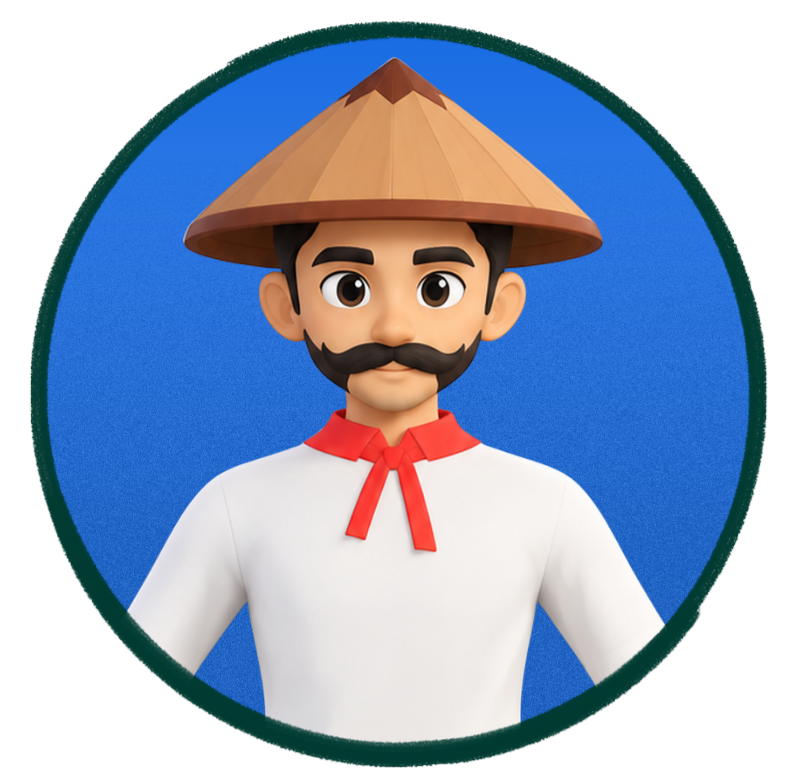
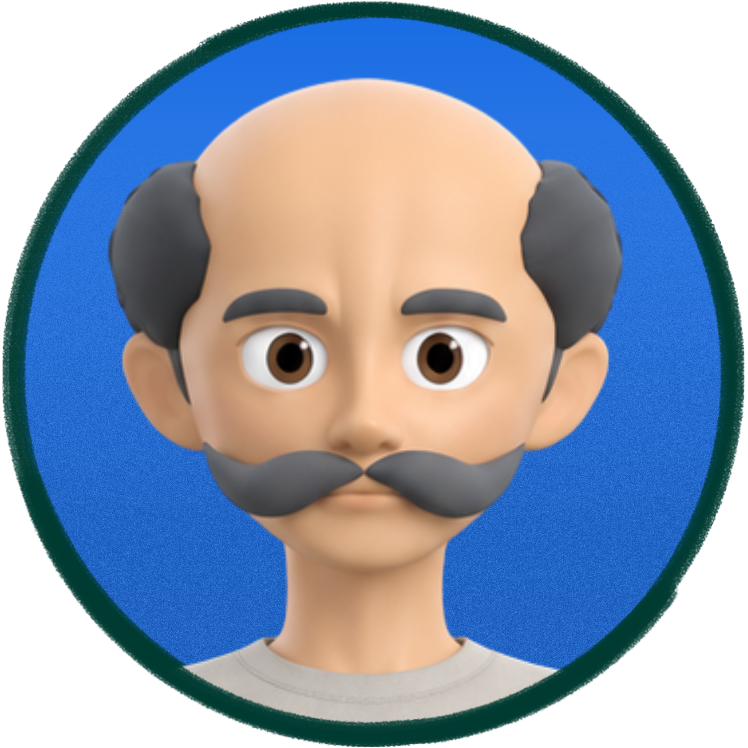
new changes

diff --git a/script/dashboard.js b/script/dashboard.js
@@ -23,12 +23,21 @@ const db = getFirestore(app);
 document.getElementById('dash-date').textContent = new Date().toLocaleDateString('en-PH',{weekday:'long',year:'numeric',month:'long',day:'numeric'});
 
 /* ============================================================
-   AVATARS — only three choices
+   AVATARS — to add one: save the picture in img/ and add ONE line below.
+   The picker in Edit Profile is built from this list automatically.
    ============================================================ */
 const AVATARS = {
-  bata:  { label: 'Kid',       src: 'img/avatar-bata.png'  },
-  lolo:  { label: 'Mang Tomas', src: 'img/avatar-lolo.png'  },
-  libro: { label: 'Book',      src: 'img/avatar-libro.png' }
+  bata:  { label: 'Liam',       src: 'img/avatar-bata.png'  },
+  lolo:  { label: 'Lolo', src: 'img/avatar-lolo.png'  },
+  libro: { label: 'Super Book',      src: 'img/avatar-libro.png' },
+  maria: { label: 'Maria', src: 'img/avatar-maria.png' },
+  miguel: { label: 'Miguel', src: 'img/avatar-miguel.png' },
+  pedro: { label: 'Pedro', src: 'img/avatar-pedro.png' },
+  robert: { label: 'Robert', src: 'img/avatar-robert.png' },
+  jose: { label: 'Jose', src: 'img/avatar-jose.png' },
+  juan: { label: 'Juan', src: 'img/avatar-juan.png' },
+  lisa: { label: 'Lisa', src: 'img/avatar-lisa.png' },
+  thomas: { label: 'Mang Thomas', src: 'img/avatar-thomas.png' }
 };
 const DEFAULT_AVATAR = 'bata';
 
@@ -51,6 +60,17 @@ function applyAvatar(id){
     b.classList.toggle('selected', b.dataset.avatar === resolveAvatar(id));
   });
 }
+
+// Build the avatar choices in the Edit Profile popup from the AVATARS list above.
+(function buildAvatarGrid(){
+  const grid = document.getElementById('ep-avatar-grid');
+  if (!grid) return;
+  grid.innerHTML = Object.entries(AVATARS).map(([id, a]) =>
+    `<button class="ep-avatar-opt" data-avatar="${escapeHtml(id)}" type="button">
+      <img src="${escapeHtml(a.src)}" alt="${escapeHtml(a.label)}" onerror="console.warn('Avatar picture not found:', this.src); this.parentNode.remove()">
+      <span>${escapeHtml(a.label)}</span>
+    </button>`).join('');
+})();
 
 /* ============================================================
    HELPERS
@@ -130,11 +150,11 @@ const ACHIEVEMENTS = [
   { id: 'story_complete',    title: 'Story Complete',   desc: 'Unlocked by completing all story chapters.', stage: STORY_CHAPTERS.length },
   // Multiplayer badges: saved by Unity in students/{uid}/achievements/badges
   // (<key>BadgeEarned = reached, <key>BadgeClaimed = player pressed CLAIM in the game)
-  { id: 'friendly',    title: 'Friendly',    desc: 'Make friends in the game.',                          badge: 'friendly' },
-  { id: 'veteran',     title: 'Veteran',     desc: 'Play Patintero, Sekyu Base and Bamsak at least once.', badge: 'veteran' },
-  { id: 'mvp',         title: 'MVP',         desc: 'Be the MVP in a Sekyu Base match.',                  badge: 'mvp' },
-  { id: 'team_player', title: 'Team Player', desc: 'Earn it by teamwork in Sekyu Base.',                 badge: 'teamPlayer' },
-  { id: 'speedster',   title: 'Speedster',   desc: 'Earn it by speed in Sekyu Base.',                    badge: 'speedster' }
+  { id: 'friendly',    title: 'Friendly',    desc: 'Make friends in the game.',                          badge: 'friendly',   img: 'img/13.png' },
+  { id: 'veteran',     title: 'Veteran',     desc: 'Play Patintero, Sekyu Base and Bamsak at least once.', badge: 'veteran',    img: 'img/17.png' },
+  { id: 'mvp',         title: 'MVP',         desc: 'Be the MVP in a Sekyu Base match.',                  badge: 'mvp',        img: 'img/15.png' },
+  { id: 'team_player', title: 'Team Player', desc: 'Earn it by teamwork in Sekyu Base.',                 badge: 'teamPlayer', img: 'img/16.png' },
+  { id: 'speedster',   title: 'Speedster',   desc: 'Earn it by speed in Sekyu Base.',                    badge: 'speedster',  img: 'img/14.png' }
 ];
 
 function formatAchievementTime(ms) {
@@ -202,10 +222,17 @@ function renderAchievements(achievementData, chaptersCompleted = 0) {
       else if (a.stage)                 extra = resultBlock('Story Progress', `${Math.min(chaptersCompleted, STORY_CHAPTERS.length)}/${STORY_CHAPTERS.length}`, 'chapters completed');
     }
 
+    // Badge picture (only the multiplayer badges have one: see img in ACHIEVEMENTS).
+    // It sits under the text. If the file is missing, it is simply left out.
+    const pic = a.img
+      ? `<div class="ach-img"><img src="${escapeHtml(a.img)}" alt="${escapeHtml(a.title)} badge" loading="lazy" onerror="this.parentNode.remove()"></div>`
+      : '';
+
     return `<div class="ach-card ${unlocked ? 'unlocked' : 'locked'}">
       <h4>${escapeHtml(a.title)}</h4>
       <p>${escapeHtml(a.desc)}</p>
       ${extra}
+      ${pic}
       <span class="ach-status">${unlocked ? 'Unlocked' : earnedNotClaimed ? 'Claim it in the game' : 'Locked'}</span>
     </div>`;
   }).join('');
@@ -576,7 +603,14 @@ onAuthStateChanged(auth, async (user) => {
     const userSnap = await getDoc(userRef);
     const u = userSnap.exists() ? userSnap.data() : {};
 
+    // Profile erased (hard delete) and not a staff account: treat as a removed account.
+    let erased = false;
+    if (!userSnap.exists()) {
+      try { erased = !(await getDoc(doc(db,'teachers',user.uid))).exists(); } catch (_) { erased = false; }
+    }
+
     // Disabled or deleted by the school admin / teacher: no access to the dashboard.
+    if (erased) u.status = 'deleted';
     if (u.status === 'disabled' || u.status === 'deleted') {
       await Swal.fire({
         icon: 'info',

diff --git a/script/shared.js b/script/shared.js
@@ -246,6 +246,13 @@ const ACHIEVEMENTS = [
     stage: STORY_CHAPTERS.length,
     detail:(d, s) => `${s.chaptersCompleted}/${s.totalChapters} chapters completed`,
     goal:(s)      => `${s.chaptersCompleted}/${s.totalChapters} chapters` },
+  // Multiplayer badges: saved by Unity in students/{uid}/achievements/badges
+  // (<key>BadgeEarned = reached, <key>BadgeClaimed = player pressed CLAIM in the game)
+  { id:'friendly',    title:'Friendly',    desc:'Make friends in the game.',                            badge:'friendly' },
+  { id:'veteran',     title:'Veteran',     desc:'Play Patintero, Sekyu Base and Bamsak at least once.', badge:'veteran' },
+  { id:'mvp',         title:'MVP',         desc:'Be the MVP in a Sekyu Base match.',                    badge:'mvp' },
+  { id:'team_player', title:'Team Player', desc:'Earn it by teamwork in Sekyu Base.',                   badge:'teamPlayer' },
+  { id:'speedster',   title:'Speedster',   desc:'Earn it by speed in Sekyu Base.',                      badge:'speedster' },
 ];
 
 function formatAchievementTime(ms) {
@@ -317,6 +324,9 @@ export async function openProgressModal(student) {
   const saves = savesRes.ok ? savesRes.value.docs.map(d => ({ id: d.id, ...d.data() })) : [];
   const saved = achRes.ok ? new Map(achRes.value.docs.map(d => [d.id, d.data()])) : new Map();
 
+  const summary = saved.get('summary') || {};   // multiplayer totals + storyFinished
+  const badges  = saved.get('badges')  || {};   // multiplayer badges
+
   const chaptersCompleted = Math.min(total, saves.reduce((m, s) => Math.max(m, num(s.completedStage)), 0));
   const friendCount       = friendsRes.ok ? friendsRes.value.size : 0;
 
@@ -371,7 +381,7 @@ export async function openProgressModal(student) {
       <div class="pg-bar"><div class="pg-bar-fill" style="width:${pct}%"></div></div>
       <ul class="pg-list">${chapterRows}</ul>
       <p class="pg-subhead">Save slots (${saves.length})</p>
-      ${saves.length ? `<ul class="pg-list">${slotRows}</ul>` : '<p class="pg-row-meta" style="margin-top:8px">No story saves yet. The student has not started a New Game in Unity.</p>'}`;
+      ${saves.length ? `<ul class="pg-list">${slotRows}</ul>` : '<p class="pg-row-meta" style="margin-top:8px">No story saves yet.</p>'}`;
   }
 
   // ---- badges section ----
@@ -381,18 +391,21 @@ export async function openProgressModal(student) {
     // Same rules as dashboard.js: Luksong Baka needs a real win
     // (completed === true); the other Unity badges need a document
     // that is not marked unlocked:false; the story badge uses chapters.
-    const unlocked = a.stage
-      ? chaptersCompleted >= a.stage
-      : (!!data && (a.id === 'luksong_baka' ? data.completed === true : data.unlocked !== false));
+    const earnedNotClaimed = !!a.badge && badges[a.badge + 'BadgeEarned'] === true && badges[a.badge + 'BadgeClaimed'] !== true;
+    const unlocked = a.badge
+      ? badges[a.badge + 'BadgeClaimed'] === true
+      : a.stage
+        ? (chaptersCompleted >= a.stage || summary.storyFinished === true)
+        : (!!data && (a.id === 'luksong_baka' ? data.completed === true : data.unlocked !== false));
     if (unlocked) unlockedCount++;
-    const info = unlocked ? `<div class="pg-row-meta">${escapeHtml(a.detail(data, stats))}</div>` : '';
+    const info = (unlocked && a.detail) ? `<div class="pg-row-meta">${escapeHtml(a.detail(data, stats))}</div>` : '';
     return `<li class="pg-row">
       <div>
         <span class="pg-row-title">${escapeHtml(a.title)}</span>
         <div class="pg-row-meta">${escapeHtml(a.desc)}</div>
         ${info}
       </div>
-      <span class="pg-pill ${unlocked ? 'done' : 'locked'}">${unlocked ? 'Unlocked' : (a.goal ? a.goal(stats) : 'Locked')}</span>
+      <span class="pg-pill ${unlocked ? 'done' : 'locked'}">${unlocked ? 'Unlocked' : earnedNotClaimed ? 'Not claimed yet' : (a.goal ? a.goal(stats) : 'Locked')}</span>
     </li>`;
   }).join('');
 
@@ -400,6 +413,12 @@ export async function openProgressModal(student) {
     ${warnHtml}
     <div class="pg-stats">
       <div class="pg-stat"><strong>${friendsRes.ok ? friendCount : 'N/A'}</strong><span>Friends</span></div>
+      <div class="pg-stat"><strong>${achRes.ok ? num(summary.totalMultiplayerWins) : 'N/A'}</strong><span>Multiplayer wins</span></div>
+      <div class="pg-stat"><strong>${achRes.ok ? num(summary.totalMultiplayerPlays) : 'N/A'}</strong><span>Multiplayer plays</span></div>
+    </div>
+    <div class="pg-section">
+      <h4>Multiplayer games played</h4>
+      <ul class="pg-list two-col">${[['Patintero','playedPatintero'],['Sekyu Base','playedSekyuBase'],['Bamsak','playedBamsak']].map(([n,f]) => `<li class="pg-row"><span class="pg-row-title">${n}</span><span class="pg-pill ${summary[f] === true ? 'done' : 'locked'}">${summary[f] === true ? 'Played' : 'Not yet'}</span></li>`).join('')}</ul>
     </div>
     <div class="pg-section">
       <h4>Story progress</h4>
@@ -457,4 +476,4 @@ export function fileToCompressedDataUrl(file, maxSide = 1400) {
     img.onerror = () => { URL.revokeObjectURL(url); reject(new Error('bad-image')); };
     img.src = url;
   });
-} 
+}

diff --git a/script/school-admin.js b/script/school-admin.js
@@ -1,6 +1,6 @@
 import { onAuthStateChanged, signOut } from "https://www.gstatic.com/firebasejs/11.0.0/firebase-auth.js";
 import {
-  collection, doc, getDoc, setDoc, updateDoc, deleteDoc, onSnapshot, query, where, serverTimestamp,
+  collection, doc, getDoc, getDocs, setDoc, updateDoc, deleteDoc, onSnapshot, query, where, serverTimestamp,
   writeBatch, Timestamp,
 } from "https://www.gstatic.com/firebasejs/11.0.0/firebase-firestore.js";
 import {
@@ -684,22 +684,61 @@ async function toggleStudent(id) {
   }
 }
 
+// Permanently erase a student's data from Firestore (hard delete).
+// A browser cannot delete someone else's Firebase *login*, so the game also checks that
+// students/{uid} still exists (a missing profile = removed account).
+async function eraseStudentData(id) {
+  let leftovers = false;
+  const wipe = async (ref, after) => {
+    try {
+      const snap = await getDocs(ref);
+      for (const d of snap.docs) {
+        try { await deleteDoc(d.ref); if (after) await after(d); } catch (_) { leftovers = true; }
+      }
+    } catch (_) { leftovers = true; }
+  };
+  await wipe(collection(db, 'students', id, 'storySaves'));
+  await wipe(collection(db, 'students', id, 'achievements'));
+  // friends: remove the other side of each friendship too
+  await wipe(collection(db, 'students', id, 'friends'), d => deleteDoc(doc(db, 'students', d.id, 'friends', id)));
+  // pending friend requests sent or received
+  await wipe(query(collection(db, 'friendRequests'), where('from', '==', id)));
+  await wipe(query(collection(db, 'friendRequests'), where('to', '==', id)));
+  try { await deleteDoc(doc(db, 'reviews', id)); } catch (_) { /* no review, or not allowed */ }
+  return leftovers;
+}
+
 async function deleteStudent(id) {
   const u = STUDENTS.find(x => x.id === id);
   if (!u) return;
   const who = u.fullName || u.username;
   const res = await Swal.fire({
     icon: 'warning',
-    title: 'Delete this account?',
-    html: `<b>${escapeHtml(who)}</b> will be removed from your school and can no longer log in. Their seat in the section is freed.`,
+    title: 'Delete this account permanently?',
+    html: `<b>${escapeHtml(who)}</b> and all their progress (story saves, badges, friends) will be erased for good and cannot be brought back. They will no longer be able to log in to the website or the game. Their seat in the section is freed.`,
     showCancelButton: true,
-    confirmButtonText: 'Delete',
+    confirmButtonText: 'Delete permanently',
     confirmButtonColor: '#e53935',
   });
   if (!res.isConfirmed) return;
+  Swal.fire({ title: 'Deleting...', allowOutsideClick: false, allowEscapeKey: false, showConfirmButton: false, didOpen: () => Swal.showLoading() });
   try {
+    // 1) block the account first (already allowed by your rules), so it is safe even if a later step fails
     await updateDoc(doc(db, 'students', id), { status: 'deleted' });
-    Swal.fire({ icon: 'success', title: 'Deleted', text: `${who} was removed.`, timer: 1800, showConfirmButton: false });
+    // 2) erase their data, then the profile itself
+    const leftovers = await eraseStudentData(id);
+    try {
+      await deleteDoc(doc(db, 'students', id));
+    } catch (err) {
+      Swal.fire({ icon: 'warning', title: 'Account removed, not erased',
+        text: err.code === 'permission-denied'
+          ? 'The account can no longer log in, but the database rules do not allow erasing the record yet.'
+          : err.message, confirmButtonColor: '#F4A234' });
+      return;
+    }
+    Swal.fire({ icon: leftovers ? 'info' : 'success', title: 'Deleted',
+      text: leftovers ? `${who} was erased. Some extra data (like a friend's copy) could not be removed.` : `${who} was permanently deleted.`,
+      timer: leftovers ? 3200 : 1800, showConfirmButton: leftovers });
   } catch (err) {
     const msg = err.code === 'permission-denied' ? 'Database permission denied. Publish the updated Firestore rules (students status).' : err.message;
     Swal.fire({ title: 'Error', text: msg, confirmButtonColor: '#e53935' });
@@ -770,18 +809,12 @@ function renderSectionStudents() {
 
   const studentTable = list => `
     <div class="sa-table-wrap"><table class="sa-table">
-      <thead><tr><th>#</th><th>Name</th><th>Email</th><th>Date Joined</th><th>Manage</th></tr></thead>
+      <thead><tr><th>#</th><th>Name</th><th>Email</th><th>Date Joined</th></tr></thead>
       <tbody>${list.map((u, i) => `<tr>
         <td>${i + 1}</td>
         <td>${personCell(u)}${statusPill(u)}</td>
         <td>${escapeHtml(u.email)}</td>
         <td>${formatDate(u.joined)}</td>
-        <td><div class="sa-actions">
-          ${IS_STAFF ? `<button class="sa-mini blue" onclick="openProgressModal('${u.id}')">Progress</button>` : ''}
-          <button class="sa-mini blue" onclick="resendSetupEmail('${u.id}')">Resend</button>
-          ${disableBtn(u)}
-          <button class="sa-mini red" onclick="deleteStudent('${u.id}')">Delete</button>
-        </div></td>
       </tr>`).join('')}</tbody>
     </table></div>`;
 

diff --git a/script/reviews.js b/script/reviews.js
@@ -5,7 +5,17 @@ const FIREBASE_VERSION = '11.0.0';
 const MAX_COMMENT = 300;
 const PAGE_SIZE = 6;
 // Same three avatars as the student dashboard (dashboard.js).
-const AVATARS = { bata: 'img/avatar-bata.png', lolo: 'img/avatar-lolo.png', libro: 'img/avatar-libro.png' };
+const AVATARS = {
+  bata: 'img/avatar-bata.png', lolo: 'img/avatar-lolo.png', libro: 'img/avatar-libro.png',
+  maria: 'img/avatar-maria.png',
+  miguel: 'img/avatar-miguel.png',
+  pedro: 'img/avatar-pedro.png',
+  robert: 'img/avatar-robert.png',
+  jose: 'img/avatar-jose.png',
+  juan: 'img/avatar-juan.png',
+  lisa: 'img/avatar-lisa.png',
+  thomas: 'img/avatar-thomas.png'
+};
 
 const base = 'https://www.gstatic.com/firebasejs/' + FIREBASE_VERSION + '/';
 const countEl = document.getElementById('rev-count');
@@ -189,8 +199,24 @@ function niceDate(ms) {
       myName = p.name;
       myAvatar = p.avatar;
       fillMine();
+      syncMyReview();
     }
   });
+
+  // keep the user's saved review in step with their current name + avatar
+  // (the review stores a copy of the avatar, so it goes stale when it is changed in the dashboard)
+  async function syncMyReview() {
+    try {
+      const ref = fb.doc(db, 'reviews', user.uid);
+      const snap = await fb.getDoc(ref);
+      if (!snap.exists()) return;
+      const d = snap.data();
+      const changes = {};
+      if (myAvatar && d.avatar !== myAvatar) changes.avatar = myAvatar;
+      if (myName && d.name !== myName) changes.name = myName;
+      if (Object.keys(changes).length) await fb.updateDoc(ref, changes);
+    } catch (_) { /* rules may block it; the next submit will still save the new avatar */ }
+  }
 
   // ---- submit ----
   form.addEventListener('submit', async e => {

diff --git a/script/login.js b/script/login.js
@@ -156,8 +156,10 @@ if (loginBtn) {
 
       let isStaff = false;
       let staffData = null;
+      let staffChecked = false;
       try {
         const teacherSnap = await getDoc(doc(db, 'teachers', cred.user.uid));
+        staffChecked = true;
         if (teacherSnap.exists() && ['admin', 'teacher', 'staff'].includes(teacherSnap.data().role)) {
           isStaff = true;
           staffData = teacherSnap.data();
@@ -180,6 +182,7 @@ if (loginBtn) {
         try {
           const dSnap = await getDoc(doc(db, 'students', cred.user.uid));
           if (dSnap.exists()) blocked = dSnap.data().status === 'deleted' ? 'deleted' : (dSnap.data().status === 'disabled' ? 'disabled' : '');
+          else if (staffChecked) blocked = 'deleted';   // profile erased by the school admin: the login still exists, but the account is gone
         } catch (_) { /* can't check: let them through */ }
         if (blocked) {
           await signOut(auth);

diff --git a/css/dashboard.css b/css/dashboard.css
@@ -1723,3 +1723,20 @@ body::-webkit-scrollbar,
   background-image: linear-gradient(rgba(13, 30, 60, 0.12), rgba(13, 30, 60, 0.12)),
                     url('../img/dbbg.png');
 }
+
+/* ---- BADGE PICTURES (img/badges/*.png) ---- */
+.ach-img {
+  height: 112px;
+  margin: 4px auto 12px;
+  display: flex;
+  align-items: center;
+  justify-content: center;
+}
+.ach-img img {
+  max-width: 100%;
+  max-height: 100%;
+  object-fit: contain;
+  filter: drop-shadow(0 3px 0 rgba(0,0,0,0.12));
+}
+.ach-card.locked .ach-img img { filter: grayscale(1) brightness(1.05); opacity: .55; }
+@media (max-width: 600px) { .ach-img { height: 92px; } }
